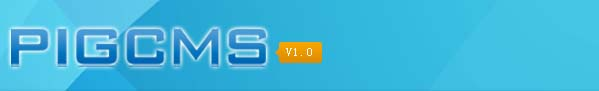
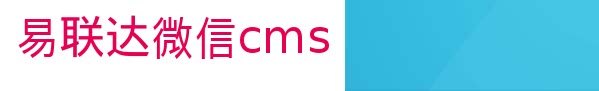
升级后（0324 补丁） 修改logo

diff --git a/upload/tpl/User/default/Public_head.html b/upload/tpl/User/default/Public_head.html
@@ -46,30 +46,32 @@
 a.a_upload,a.a_choose{border:1px solid #3d810c;box-shadow:0 1px #CCCCCC;-moz-box-shadow:0 1px #CCCCCC;-webkit-box-shadow:0 1px #CCCCCC;cursor:pointer;display:inline-block;text-align:center;vertical-align:bottom;overflow:visible;border-radius:3px;-moz-border-radius:3px;-webkit-border-radius:3px;vertical-align:middle;background-color:#f1f1f1;background-image: -webkit-linear-gradient(bottom, #CCC 0%, #E5E5E5 3%, #FFF 97%, #FFF 100%); background-image: -moz-linear-gradient(bottom, #CCC 0%, #E5E5E5 3%, #FFF 97%, #FFF 100%); background-image: -ms-linear-gradient(bottom, #CCC 0%, #E5E5E5 3%, #FFF 97%, #FFF 100%); color:#000;border:1px solid #AAA;padding:2px 8px 2px 8px;text-shadow: 0 1px #FFFFFF;font-size: 14px;line-height: 1.5;
 }
 </style>
-<div class="welcome">欢迎使用多用户微信营销服务平台!</div>
-    <div class="memberinfo"  id="destoon_member">	
+<div class="welcome">欢迎使用{pigcms::C('SITE_NAME')}多用户微信营销服务平台!</div>
+    <div class="memberinfo"  id="destoon_member">
 		<if condition="$_SESSION[uid]==false">
 			<a href="{pigcms::U('Index/login')}">登录</a>&nbsp;&nbsp;|&nbsp;&nbsp;
 			<a href="{pigcms::U('Index/login')}">注册</a>
 			<else/>
 			你好,<a href="/#" hidefocus="true"  ><span style="color:red">{pigcms:$Think.session.uname}</span></a>（uid:{pigcms:$Think.session.uid}）
 			<a href="/#" onclick="Javascript:window.open('{pigcms::U('System/Admin/logout')}','_blank')" >退出</a>
-	</if>	
+	</if>
 	</div>
 </div>
     <div class="logo">
         <div style="float:left"></div>
             <h1><a href="/" title="多用户微信营销服务平台"><img src="{pigcms:$f_logo}" /></a></h1>
             <div class="navr">
-        <ul id="topMenu">         
+        <ul id="topMenu">
             <li <if condition="(ACTION_NAME eq 'index') and (GROUP_NAME eq 'Home')">class="menuon"</if> ><a href="/" >首页</a></li>
                 <li <eq name="ACTION_NAME" value="fc">class="menuon"</eq>><a href="{pigcms::U('Home/Index/fc')}">功能介绍</a></li>
                 <li <eq name="ACTION_NAME" value="about">class="menuon"</eq>><a href="{pigcms::U('Home/Index/about')}">关于我们</a></li>
+                <!--
                 <li <eq name="ACTION_NAME" value="price">class="menuon"</eq>><a href="/index.php?g=Home&m=Index&a=price">资费说明</a></li>
                 <li <eq name="ACTION_NAME" value="common">class="menuon"</eq>><a href="{pigcms::U('Home/Index/common')}">微信导航</a></li>
+                -->
                 <li <eq name="GROUP_NAME" value="User">class="menuon"</eq>><a href="{pigcms::U('User/Index/index')}">管理中心</a></li>
                 <li <eq name="ACTION_NAME" value="help">class="menuon"</eq>><a href="{pigcms::U('Home/Index/help')}">帮助中心</a></li>
-            
+
             </ul>
         </div>
         </div>
@@ -80,7 +82,7 @@ a.a_upload,a.a_choose{border:1px solid #3d810c;box-shadow:0 1px #CCCCCC;-moz-box
 <div id="wp" class="wp"><link href="{pigcms::RES}/css/style.css?id=100" rel="stylesheet" type="text/css" />
   <!--中间内容-->
   <script src="{pigcms::STATICS}/jquery-1.4.2.min.js" type="text/javascript"></script>
-  
+
   <div class="contentmanage">
     <div class="developer">
        <div class="appTitle normalTitle2">
@@ -117,7 +119,7 @@ a.a_upload,a.a_choose{border:1px solid #3d810c;box-shadow:0 1px #CCCCCC;-moz-box
       </div>
       <!--左侧功能菜单-->
 
- 
+
 <style type="text/css">
 #sideBar{
 border-right: 0px solid #D3D3D3 !important;
@@ -140,7 +142,7 @@ ul#menu, ul#menu ul {
 
 ul#menu a {
   display: block;
-  text-decoration: none;	
+  text-decoration: none;
 }
 
 ul#menu li {
@@ -151,7 +153,7 @@ ul#menu li ul li{
 }
 ul#menu li a {
   background: #EBEEF1;
-  color: #464D6A;	
+  color: #464D6A;
   padding: 0.5em;
 }
 ul#menu li .nav-header{
@@ -173,7 +175,7 @@ ul#menu li ul li:last-child {
 ul#menu li ul li a:hover {
   background: #fff;
   border-left: 5px #4A98E0 solid;
- 
+
 }
 ul#menu li.selected a{
   background: #fff;
@@ -190,9 +192,9 @@ ul#menu li.selected a{
 
 a.nav-header{background:url(/tpl/static/images/arrow_click.png) center right no-repeat;cursor:pointer}
 a.nav-header-current{background:url(/tpl/static/images/arrow_unclick.png) center right no-repeat;}
-</style>  
+</style>
       <div class="tableContent">
-        
+
         <!--左侧功能菜单-->
  <div  class="sideBar" id="sideBar">
 <div class="catalogList">

diff --git a/upload/tpl/System/System/index.html b/upload/tpl/System/System/index.html
@@ -1,8 +1,8 @@
 <head>
 <meta http-equiv="Content-Type" content="text/html; charset=utf-8" />
-<title>{pigcms:$f_siteName}-PigCms后台管理系统</title>
-<meta name="keywords" content="{pigcms:$f_siteName}-PigCms后台管理系统" />
-<meta name="description" content="{pigcms:$f_siteName}-PigCms后台管理系统" />
+<title>{pigcms:$f_siteName}-{pigcms::C('SITE_NAME')}后台管理系统</title>
+<meta name="keywords" content="{pigcms:$f_siteName}-{pigcms::C('SITE_NAME')}后台管理系统" />
+<meta name="description" content="{pigcms:$f_siteName}-{pigcms::C('SITE_NAME')}后台管理系统" />
 <link href="{pigcms::RES}/images/style.css" type="text/css" rel="stylesheet">
 <meta http-equiv="x-ua-compatible" content="ie=7" />
 <script src="{pigcms::STATICS}/jquery-1.4.2.min.js" type="text/javascript"></script>
@@ -17,15 +17,13 @@
 	<div class="top">
     	<a href="/" class="logo" title="首页">首页</a>
 		 <div class="login">
-			<li>您好：<b>{pigcms:$Think.session.username}</b> ，欢迎使用PigCMS！</li>	
+       <li>您好：<b>{pigcms:$Think.session.username}</b> ，欢迎使用{pigcms::C('SITE_NAME')} 微信营销系统！</li>
 			<li><a href="/index.php" target="_blank"> 访问首页</a></li>
 			<li><a href="/index.php?g=User&m=Index&a=index" target="_blank">用户中心</a></li>
-			<li><a href="http://www.pigcms.com">官方网址</a></li>
-			<li><a href="http://www.pigcms.com">官方论坛</a></li>
 			<li><a href="{pigcms::U('Admin/logout')}">[退出]</a></li>
 		</div>
 
-      
+
     </div>
     <div class="tm">
     	<ul>
@@ -63,7 +61,7 @@
   <tr>
     <td><div id="footer"><i class="tico"></i>
 
-<p class="fr"> Copyright &copy; 2012-2013 小猪cms(PigCms)版权所有  </p>
+<p class="fr"> Copyright &copy; 2012-2013 版权所有  </p>
 </div></td>
   </tr>
 </table>

diff --git a/upload/tpl/Home/pigcms/Public_footer.html b/upload/tpl/Home/pigcms/Public_footer.html
@@ -2,19 +2,17 @@
 <div class="IndexFoot" style="height:120px;">
 <div class="foot">
 <div class="foot_page">
-<a href="{pigcms::C('site_url')}">{pigcms::C('SITE_NAME')},微信公众平台营销源码</a><br/>
+<a href="{pigcms::C('site_url')}">{pigcms::C('SITE_NAME')},微信公众平台营销</a><br/>
 帮助您快速搭建属于自己的营销平台,构建自己的客户群体。<br/>
 大转盘、刮刮卡，会员卡,优惠卷,订餐,订房等营销模块,客户易用,易懂,易营销。
 </div>
 <div id="copyright">
 	{pigcms::C('site_name')}(c) 版权所有<br/>
+  <span style='display:none'>
 	QQ咨询：<a target="_blank" href="http://wpa.qq.com/msgrd?v=3&uin={pigcms::C('site_qq')}&site=qq&menu=yes"><img border="0" src="http://wpa.qq.com/pa?p=2:{pigcms::C('site_qq')}:51" alt="联系我吧" title="联系我吧"/></a>
-
+  </span >
 </div>
     </div>
-</div>
-<div style="display:none">
-{pigcms::base64_decode(C('countsz'))}
 </div>
 </body>
 </html>

diff --git a/upload/tpl/Admin/System/main.html b/upload/tpl/Admin/System/main.html
@@ -9,7 +9,7 @@
 </head>
 <body style="background:none">
 <div class="content">
-<div class="box">
+<div class="box" style='display:none'>
 	<h3>PigCms更新消息</h3>
     <div class="con dcon">
     <div class="update">
@@ -23,7 +23,7 @@
     <ul class="myinfo">
    <li><p class="red">您的程序版本为：PigCms多用户微信营销系统</p><span>[ 授权版本：商业版 (终身使用权) ]</span></li>
    <li style="display:none"><p class="red" style="display:none">您的程序版本为：PigCms多用户微信营销系统v1.0</p><span style="display:none">[ 授权版本：商业版 (终身免费) ]</span></li>
-  
+
 	</ul>
     </div>
 </div>

diff --git a/upload/tpl/System/System/main.html b/upload/tpl/System/System/main.html
@@ -9,7 +9,7 @@
 </head>
 <body style="background:none">
 <div class="content">
-<div class="box">
+<div class="box" style='display:none'>
 	<h3>PigCms更新消息</h3>
     <div class="con dcon">
     <div class="update">
@@ -23,7 +23,7 @@
     <ul class="myinfo">
    <li><p class="red">您的程序版本为：PigCms多用户微信营销系统</p><span>[ 授权版本：商业版 (终身使用权) ]</span></li>
    <li style="display:none"><p class="red" style="display:none">您的程序版本为：PigCms多用户微信营销系统v1.0</p><span style="display:none">[ 授权版本：商业版 (终身免费) ]</span></li>
-  
+
 	</ul>
     </div>
 </div>

diff --git a/upload/tpl/User/default/Public_footer.html b/upload/tpl/User/default/Public_footer.html
@@ -26,10 +26,5 @@
     </div>
 </div>
 
-<div style="display:none">
-{pigcms:$alert}
-{pigcms::base64_decode(C('countsz'))}
-<script src="http://s15.cnzz.com/stat.php?id=5524076&web_id=5524076" language="JavaScript"></script>
-</div>
 </body>
 </html>
